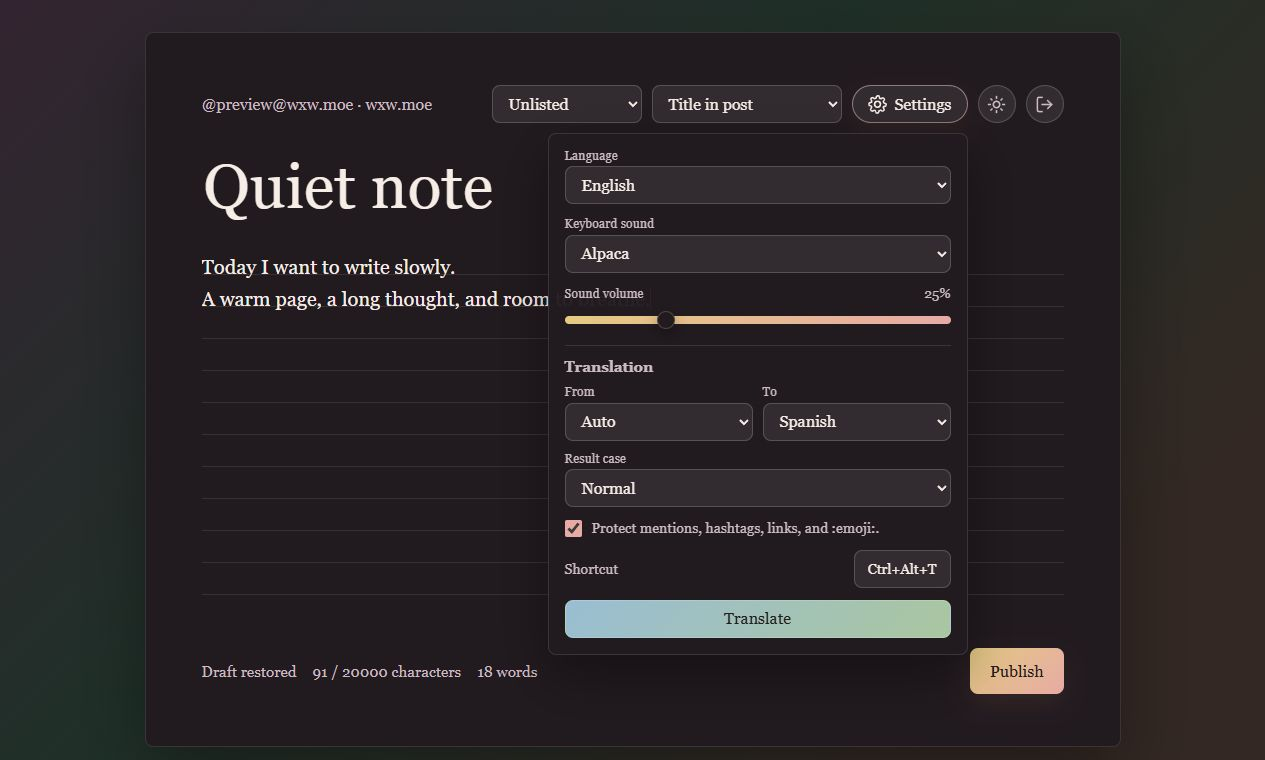
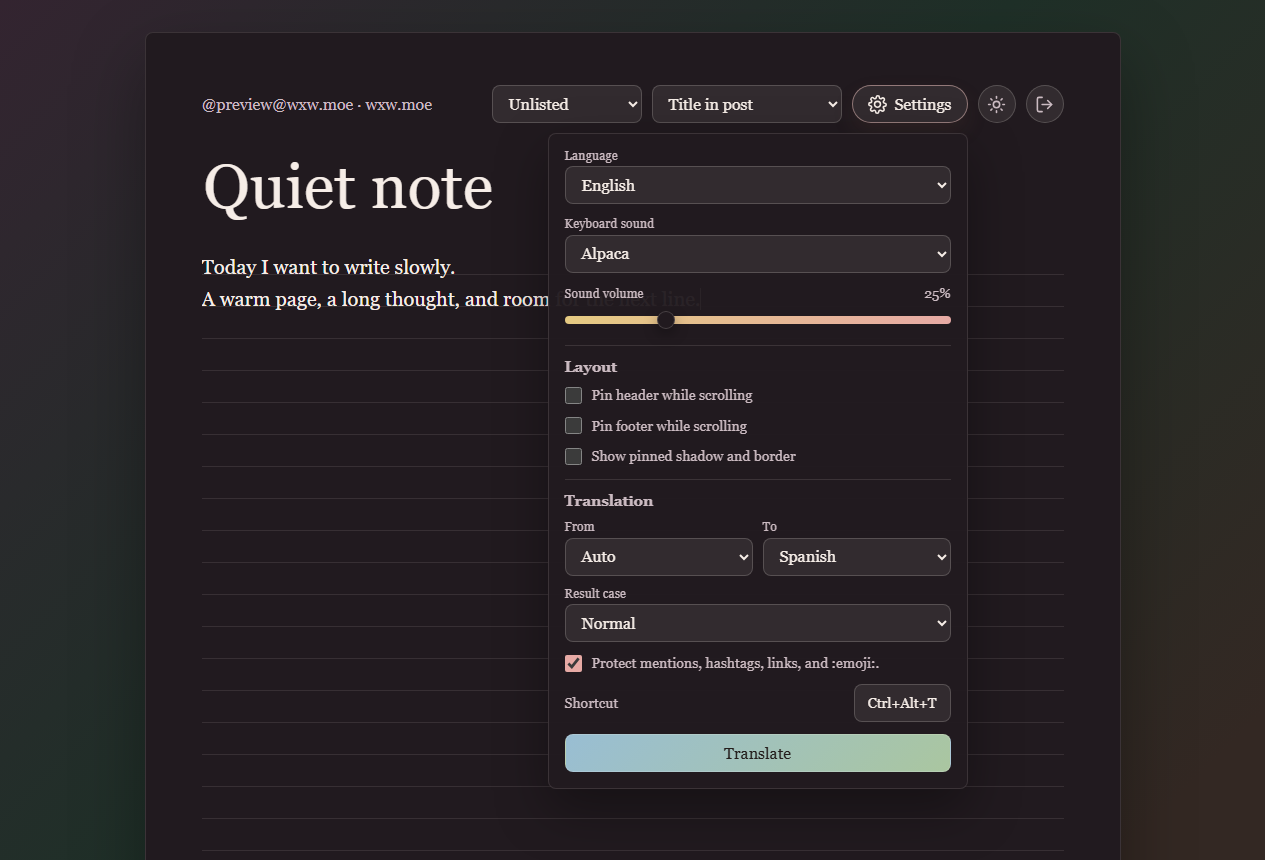
Refine pinned layout and writing scroll

diff --git a/static/app.js b/static/app.js
@@ -20,6 +20,8 @@ var els = {
   pinHeaderLabel: document.querySelector("#pinHeaderLabel"),
   pinFooter: document.querySelector("#pinFooter"),
   pinFooterLabel: document.querySelector("#pinFooterLabel"),
+  pinnedChrome: document.querySelector("#pinnedChrome"),
+  pinnedChromeLabel: document.querySelector("#pinnedChromeLabel"),
   translationSettingsLabel: document.querySelector("#translationSettingsLabel"),
   translateSource: document.querySelector("#translateSource"),
   translateSourceLabel: document.querySelector("#translateSourceLabel"),
@@ -35,6 +37,7 @@ var els = {
   themeToggle: document.querySelector("#themeToggle"),
   logout: document.querySelector("#logout"),
   publish: document.querySelector("#publish"),
+  statusbar: document.querySelector(".statusbar"),
   saved: document.querySelector("#saved"),
   count: document.querySelector("#count"),
   words: document.querySelector("#words"),
@@ -49,7 +52,8 @@ var defaultPrefs = {
   language: "en",
   theme: "light",
   pinHeader: false,
-  pinFooter: false
+  pinFooter: false,
+  pinnedChrome: false
 };
 var defaultTranslationPrefs = {
   source: "auto",
@@ -71,6 +75,7 @@ var i18n = {
     layout: "Layout",
     pinHeader: "Pin header while scrolling",
     pinFooter: "Pin footer while scrolling",
+    pinnedChrome: "Show pinned shadow and border",
     translation: "Translation",
     translateFrom: "From",
     translateTo: "To",
@@ -138,6 +143,7 @@ var i18n = {
     layout: "Disposición",
     pinHeader: "Fijar encabezado al hacer scroll",
     pinFooter: "Fijar barra inferior al hacer scroll",
+    pinnedChrome: "Mostrar sombra y borde al fijar",
     translation: "Traducción",
     translateFrom: "Origen",
     translateTo: "Destino",
@@ -205,6 +211,7 @@ var i18n = {
     layout: "布局",
     pinHeader: "滚动时固定页眉",
     pinFooter: "滚动时固定页脚",
+    pinnedChrome: "固定时显示阴影和边框",
     translation: "翻译",
     translateFrom: "源语言",
     translateTo: "目标语言",
@@ -312,7 +319,8 @@ function loadPreferences() {
       language: defaultPrefs.language,
       theme: defaultPrefs.theme,
       pinHeader: defaultPrefs.pinHeader,
-      pinFooter: defaultPrefs.pinFooter
+      pinFooter: defaultPrefs.pinFooter,
+      pinnedChrome: defaultPrefs.pinnedChrome
     };
   }
 
@@ -328,7 +336,8 @@ function loadPreferences() {
     language: optionIsAllowed(parsed.language, ["en", "es", "zh"], defaultPrefs.language),
     theme: optionIsAllowed(parsed.theme, ["light", "dark"], defaultPrefs.theme),
     pinHeader: typeof parsed.pinHeader === "boolean" ? parsed.pinHeader : defaultPrefs.pinHeader,
-    pinFooter: typeof parsed.pinFooter === "boolean" ? parsed.pinFooter : defaultPrefs.pinFooter
+    pinFooter: typeof parsed.pinFooter === "boolean" ? parsed.pinFooter : defaultPrefs.pinFooter,
+    pinnedChrome: typeof parsed.pinnedChrome === "boolean" ? parsed.pinnedChrome : defaultPrefs.pinnedChrome
   };
 }
 
@@ -471,6 +480,7 @@ function applyPreferences() {
   document.documentElement.setAttribute("data-theme", prefs.theme);
   document.documentElement.setAttribute("data-pin-header", prefs.pinHeader ? "true" : "false");
   document.documentElement.setAttribute("data-pin-footer", prefs.pinFooter ? "true" : "false");
+  document.documentElement.setAttribute("data-pinned-chrome", prefs.pinnedChrome ? "true" : "false");
   document.title = text("documentTitle");
 
   els.visibility.value = prefs.visibility;
@@ -502,8 +512,10 @@ function applyPreferences() {
   els.layoutSettingsLabel.textContent = text("layout");
   els.pinHeaderLabel.textContent = text("pinHeader");
   els.pinFooterLabel.textContent = text("pinFooter");
+  els.pinnedChromeLabel.textContent = text("pinnedChrome");
   els.pinHeader.checked = prefs.pinHeader;
   els.pinFooter.checked = prefs.pinFooter;
+  els.pinnedChrome.checked = prefs.pinnedChrome;
   els.translationSettingsLabel.textContent = text("translation");
   els.translateSourceLabel.textContent = text("translateFrom");
   els.translateTargetLabel.textContent = text("translateTo");
@@ -545,6 +557,7 @@ function applyPreferences() {
     els.saved.textContent = text("localDraft");
   }
   updateCount();
+  updatePinnedLayout();
 }
 
 function composedText() {
@@ -581,6 +594,7 @@ function showToast(message, action, duration) {
   var link;
   window.clearTimeout(toastTimer);
   els.toast.textContent = "";
+  updatePinnedLayout();
 
   messageEl = document.createElement("span");
   messageEl.className = "toast-message";
@@ -612,20 +626,64 @@ function writingTailHeight() {
   return Math.max(bodyLineHeight() * 10, window.innerHeight * 0.34);
 }
 
+function measureBodyContentHeight(value) {
+  var style = window.getComputedStyle(els.body);
+  var mirror = document.createElement("div");
+  var marker = document.createElement("span");
+  var height;
+  mirror.setAttribute("aria-hidden", "true");
+  mirror.style.position = "absolute";
+  mirror.style.left = "-9999px";
+  mirror.style.top = "0";
+  mirror.style.visibility = "hidden";
+  mirror.style.width = Math.max(1, els.body.clientWidth) + "px";
+  mirror.style.minHeight = "0";
+  mirror.style.height = "auto";
+  mirror.style.padding = style.padding;
+  mirror.style.border = style.border;
+  mirror.style.boxSizing = style.boxSizing;
+  mirror.style.fontFamily = style.fontFamily;
+  mirror.style.fontSize = style.fontSize;
+  mirror.style.fontStyle = style.fontStyle;
+  mirror.style.fontWeight = style.fontWeight;
+  mirror.style.letterSpacing = style.letterSpacing;
+  mirror.style.lineHeight = style.lineHeight;
+  mirror.style.textTransform = style.textTransform;
+  mirror.style.whiteSpace = "pre-wrap";
+  mirror.style.overflowWrap = "break-word";
+  mirror.style.wordBreak = style.wordBreak;
+  mirror.appendChild(document.createTextNode(value || "\u200b"));
+  marker.textContent = "\u200b";
+  mirror.appendChild(marker);
+  document.body.appendChild(mirror);
+  height = Math.max(bodyLineHeight(), marker.offsetTop + bodyLineHeight());
+  mirror.remove();
+  return height;
+}
+
+function bodyCaretContentHeight() {
+  return measureBodyContentHeight(els.body.value.slice(0, els.body.selectionEnd));
+}
+
 function bodyCaretIsAtEnd() {
   return document.activeElement === els.body && els.body.selectionStart >= els.body.value.length - 2;
 }
 
-function keepWritingLineInView(contentHeight) {
+function keepWritingLineInView(caretHeight) {
   var rect;
   var writingLineY;
   var preferredY;
   var delta;
+  var footerHeight = 0;
   if (!bodyCaretIsAtEnd()) return;
 
   rect = els.body.getBoundingClientRect();
-  writingLineY = rect.top + Math.max(0, contentHeight - bodyLineHeight() * 0.45);
-  preferredY = window.innerHeight * 0.62;
+  if (prefs.pinFooter && els.statusbar) {
+    footerHeight = els.statusbar.getBoundingClientRect().height;
+  }
+  writingLineY = rect.top + Math.max(0, caretHeight - bodyLineHeight() * 0.45);
+  preferredY = Math.min(window.innerHeight * 0.62, window.innerHeight - footerHeight - bodyLineHeight() * 4);
+  preferredY = Math.max(window.innerHeight * 0.38, preferredY);
   delta = writingLineY - preferredY;
 
   if (delta > bodyLineHeight() * 0.8) {
@@ -633,20 +691,32 @@ function keepWritingLineInView(contentHeight) {
   }
 }
 
+function updatePinnedLayout() {
+  var lift = 0;
+  if (prefs.pinFooter && els.statusbar) {
+    lift = Math.ceil(els.statusbar.getBoundingClientRect().height + 18);
+  }
+  document.documentElement.style.setProperty("--pinned-footer-lift", lift + "px");
+}
+
 function autosize(options) {
   var tail = writingTailHeight();
   var minHeight = window.innerHeight * 0.48 + tail;
+  var contentHeight;
+  var caretHeight;
   var height;
   var shouldFollow = options && options.followWriting;
   document.documentElement.style.setProperty("--writing-tail", Math.round(tail) + "px");
-  els.body.style.height = "auto";
-  lastBodyContentHeight = els.body.scrollHeight;
-  height = Math.max(lastBodyContentHeight + tail, minHeight);
+  contentHeight = measureBodyContentHeight(els.body.value);
+  caretHeight = bodyCaretContentHeight();
+  lastBodyContentHeight = contentHeight;
+  height = Math.max(contentHeight + tail, minHeight);
   els.body.style.height = height + "px";
   els.body.parentNode.style.minHeight = height + "px";
+  updatePinnedLayout();
   if (shouldFollow) {
     window.requestAnimationFrame(function () {
-      keepWritingLineInView(lastBodyContentHeight);
+      keepWritingLineInView(caretHeight);
     });
   }
 }
@@ -895,6 +965,9 @@ function bindEvents() {
   els.pinFooter.addEventListener("change", function () {
     updatePreference("pinFooter", els.pinFooter.checked);
   });
+  els.pinnedChrome.addEventListener("change", function () {
+    updatePreference("pinnedChrome", els.pinnedChrome.checked);
+  });
   els.translateSource.addEventListener("change", function () {
     updateTranslationPreference("source", els.translateSource.value);
   });
@@ -953,7 +1026,9 @@ function bindEvents() {
     }
   });
   els.publish.addEventListener("click", publish);
-  window.addEventListener("resize", autosize);
+  window.addEventListener("resize", function () {
+    autosize();
+  });
 }
 
 bindEvents();

diff --git a/static/app.css b/static/app.css
@@ -19,6 +19,7 @@
   --body-baseline: 1.52rem;
   --writing-tail: 34vh;
   --paper-pad-x: 56px;
+  --pinned-footer-lift: 0px;
   color-scheme: light;
 }
 
@@ -120,6 +121,7 @@ textarea {
   z-index: 35;
   margin-top: -14px;
   padding: 14px 0;
+  background: var(--paper);
 }
 
 :root[data-pin-header="true"] .writer-header::before {
@@ -127,8 +129,11 @@ textarea {
   position: absolute;
   inset: -18px calc(var(--paper-pad-x) * -1) -12px;
   z-index: -1;
-  border-bottom: 1px solid var(--paper-edge);
   background: var(--paper);
+}
+
+:root[data-pinned-chrome="true"][data-pin-header="true"] .writer-header::before {
+  border-bottom: 1px solid var(--paper-edge);
   box-shadow: 0 18px 38px var(--shadow);
 }
 
@@ -138,6 +143,7 @@ textarea {
   z-index: 30;
   margin-bottom: -14px;
   padding: 14px 0;
+  background: var(--paper);
 }
 
 :root[data-pin-footer="true"] .statusbar::before {
@@ -145,8 +151,11 @@ textarea {
   position: absolute;
   inset: -12px calc(var(--paper-pad-x) * -1) -18px;
   z-index: -1;
-  border-top: 1px solid var(--paper-edge);
   background: var(--paper);
+}
+
+:root[data-pinned-chrome="true"][data-pin-footer="true"] .statusbar::before {
+  border-top: 1px solid var(--paper-edge);
   box-shadow: 0 -18px 38px var(--shadow);
 }
 
@@ -548,7 +557,8 @@ input[type="range"]::-moz-range-thumb {
 .toast {
   position: fixed;
   left: 50%;
-  bottom: 24px;
+  bottom: calc(24px + var(--pinned-footer-lift));
+  z-index: 90;
   max-width: min(92vw, 560px);
   display: flex;
   align-items: center;

diff --git a/static/index.html b/static/index.html
@@ -5,7 +5,7 @@
     <meta name="viewport" content="width=device-width, initial-scale=1" />
     <title>wxw.moe diario</title>
     <link rel="icon" type="image/svg+xml" href="/static/icon.svg?v=20260525-1" />
-    <link rel="stylesheet" href="/static/app.css?v=20260525-10" />
+    <link rel="stylesheet" href="/static/app.css?v=20260525-11" />
   </head>
   <body>
     <main class="writer-shell" aria-live="polite">
@@ -66,6 +66,10 @@
                   <label class="check-field" for="pinFooter">
                     <input id="pinFooter" type="checkbox" />
                     <span id="pinFooterLabel">Pin footer while scrolling</span>
+                  </label>
+                  <label class="check-field" for="pinnedChrome">
+                    <input id="pinnedChrome" type="checkbox" />
+                    <span id="pinnedChromeLabel">Show pinned shadow and border</span>
                   </label>
                 </section>
                 <section class="settings-section translate-settings" aria-labelledby="translationSettingsLabel">
@@ -174,6 +178,6 @@
     </main>
 
     <script src="/static/keyboardSounds.js?v=20260525-3" defer></script>
-    <script src="/static/app.js?v=20260525-10" defer></script>
+    <script src="/static/app.js?v=20260525-11" defer></script>
   </body>
 </html>

diff --git a/static/logged-out.html b/static/logged-out.html
@@ -4,7 +4,7 @@
     <meta charset="utf-8" />
     <meta name="viewport" content="width=device-width, initial-scale=1" />
     <title>Signed out - wxw.moe diary</title>
-    <link rel="stylesheet" href="/static/app.css?v=20260525-10" />
+    <link rel="stylesheet" href="/static/app.css?v=20260525-11" />
   </head>
   <body>
     <main class="writer-shell logged-out-shell">

diff --git a/README.md b/README.md
@@ -31,6 +31,7 @@ It was built for `wxw.moe`, but the backend uses the Mastodon API and can be con
   - iOS
   - Logitech G915 TKL Brown
 - Persistent keyboard sound volume control.
+- Optional pinned header/footer controls, with an optional pinned shadow and border treatment.
 - Light and dark cozy themes.
 - Publish button plus `Ctrl+Enter` / `Cmd+Enter`.
 - Systemd service example for automatic startup after reboot.
